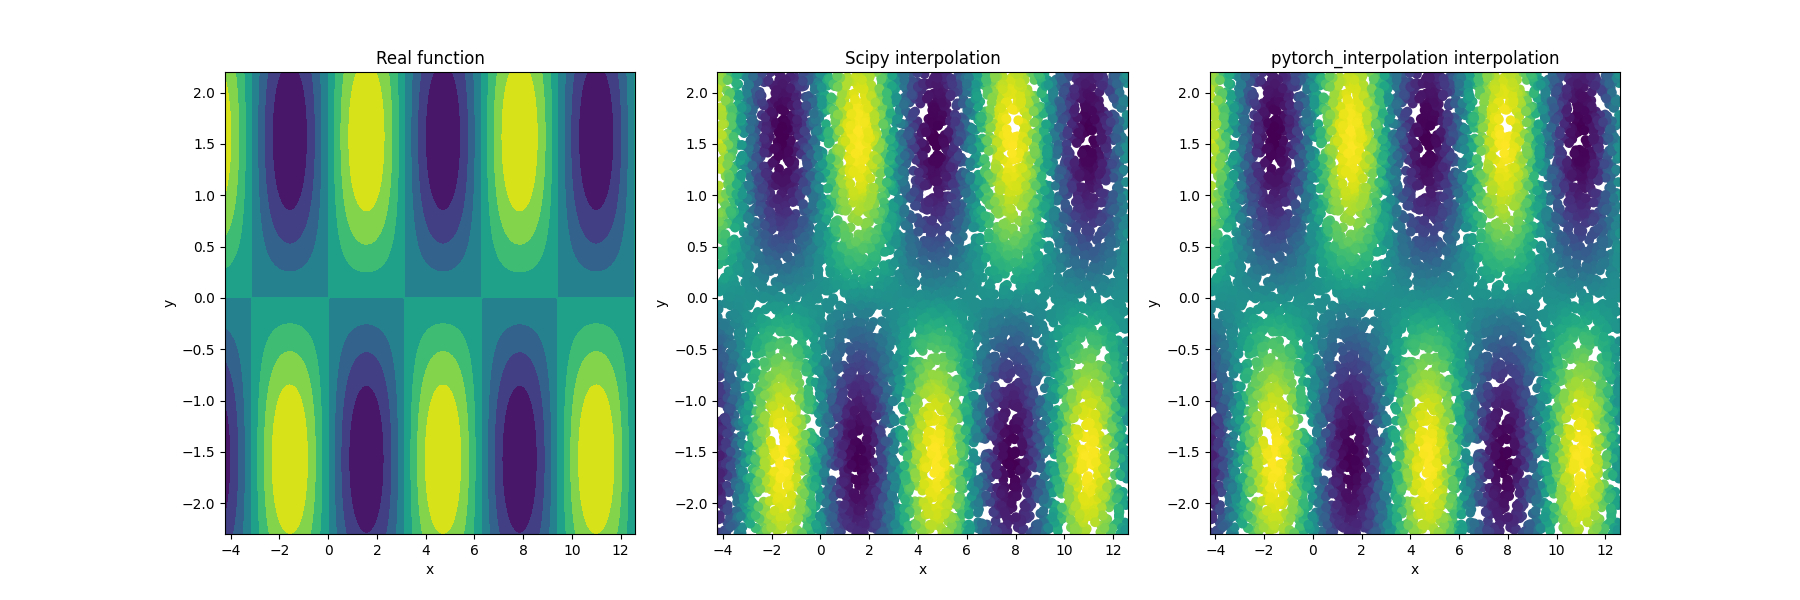
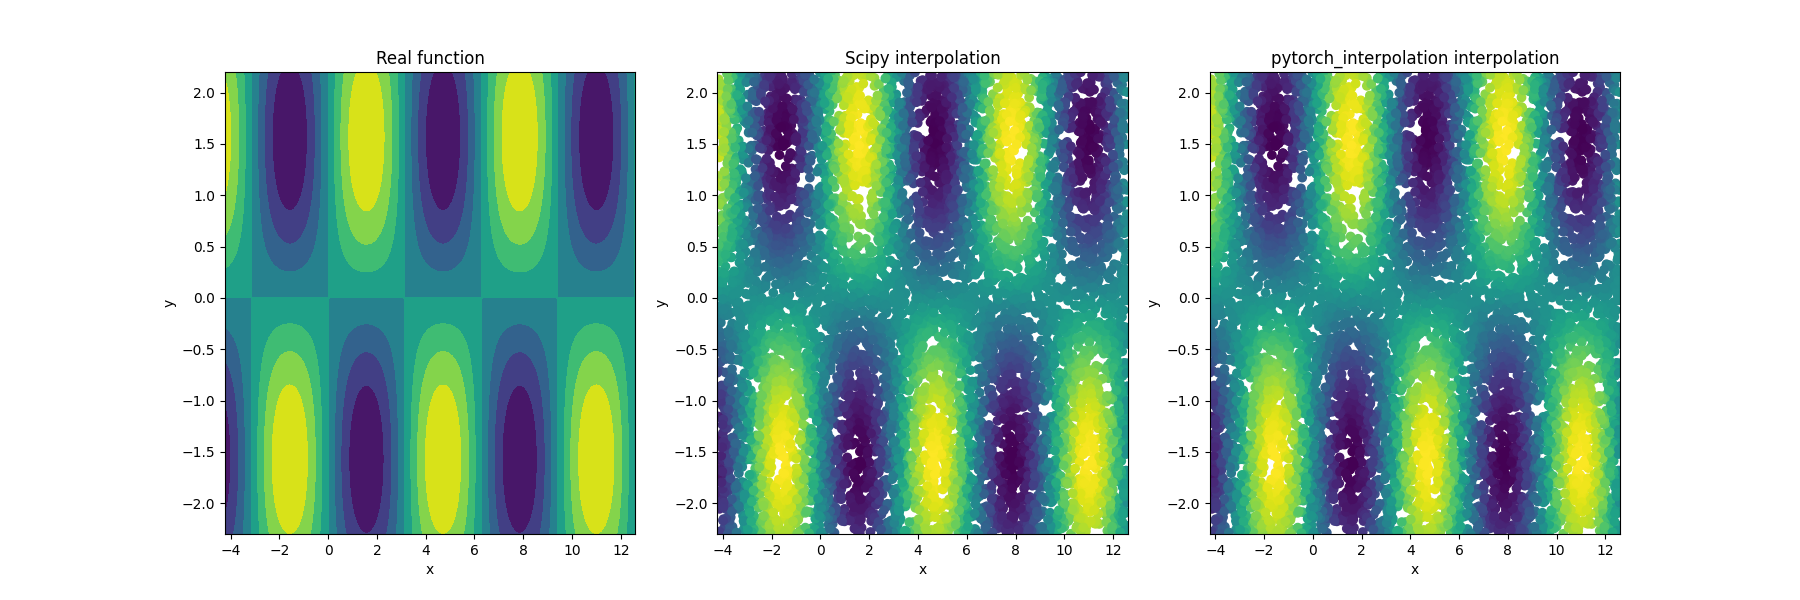
removed old setup unused commented setup lines

diff --git a/setup.py b/setup.py
@@ -87,78 +87,3 @@ setup(
 )
 
 
-
-# import os
-# import torch
-# import glob
-
-# from setuptools import find_packages, setup
-
-# from torch.utils.cpp_extension import (
-#     CppExtension,
-#     CUDAExtension,
-#     BuildExtension,
-#     CUDA_HOME,
-# )
-
-# src_dir_name = "pytorch_interp"
-
-
-# def get_extensions():
-#     debug_mode = os.getenv("DEBUG", "0") == "1"
-#     use_cuda = os.getenv("USE_CUDA", "1") == "1"
-#     if debug_mode:
-#         print("Compiling in debug mode")
-
-#     use_cuda = use_cuda and torch.cuda.is_available() and CUDA_HOME is not None
-#     extension = CUDAExtension if use_cuda else CppExtension
-
-#     extra_link_args = []
-#     extra_compile_args = {
-#         "cxx": [
-#             "-O3" if not debug_mode else "-O0",
-#             "-fdiagnostics-color=always",
-#         ],
-#         "nvcc": [
-#             "-O3" if not debug_mode else "-O0",
-#         ],
-#     }
-#     if debug_mode:
-#         extra_compile_args["cxx"].append("-g")
-#         extra_compile_args["nvcc"].append("-g")
-#         extra_link_args.extend(["-O0", "-g"])
-
-#     this_dir = os.path.dirname(os.path.curdir)
-#     extensions_dir = os.path.join(this_dir, src_dir_name, "csrc")
-#     sources = list(glob.glob(os.path.join(extensions_dir, "*.cpp")))
-
-#     extensions_cuda_dir = os.path.join(extensions_dir, "cuda")
-#     cuda_sources = list(glob.glob(os.path.join(extensions_cuda_dir, "*.cu")))
-
-#     if use_cuda:
-#         sources += cuda_sources
-
-#     ext_modules = [
-#         extension(
-#             f"{src_dir_name}._C",
-#             sources,
-#             extra_compile_args=extra_compile_args,
-#             extra_link_args=extra_link_args,
-#         )
-#     ]
-
-#     return ext_modules
-
-
-# setup(
-#     name="pytorch_interpolation",
-#     version="0.0.1",
-#     packages=find_packages(),
-#     # install_requires=["torch"],
-#     ext_modules=get_extensions(),
-#     description="Bilinear interpolation on a regular grid in PyTorch",
-#     long_description=open("README.md").read(),
-#     long_description_content_type="text/markdown",
-#     url="https://github.com/ferrarioa5/pytorch_interpolation",
-#     cmdclass={"build_ext": BuildExtension},
-# )
